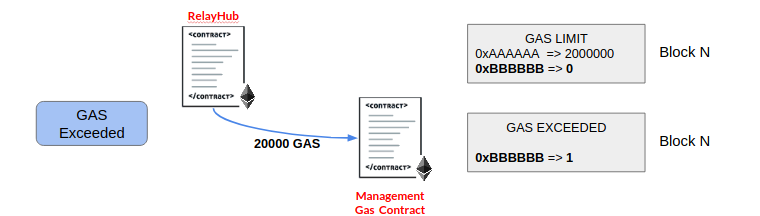
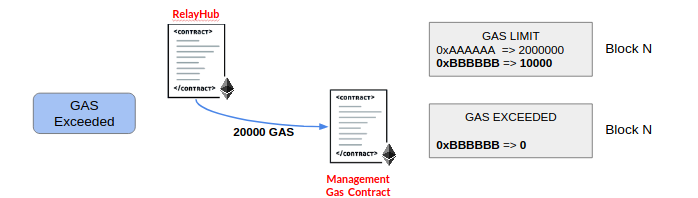
update documentation

diff --git a/docs/Architecture.md b/docs/Architecture.md
@@ -7,13 +7,13 @@ In this section we will review the different components of the architecture, fun
 ## Backend Components
 
 ### Node
-Is a writer node part of the LACChain network. The node is composed of Nginx, relaySigner layer and Hyperledger Besu.
+Is a writer node part of the LACChain network. The node is composed by Nginx, relaySigner layer and Hyperledger Besu.
 
 ### Nginx
-Its role is act as reverse proxy and SSL termination (terminate HTTPS traffic from clients), it accepts all transactions to the node and forwards them to the RelaySigner.
+Its role is act as reverse proxy and SSL termination (terminate HTTPS traffic from clients), it accepts all transactions to the node and forwards them to the RelaySigner. Direct queries to the node do not go through the RelaySigner, in this case nginx redirects them to the RPC port of Besu.
 
 ### RelaySigner Layer
-Its role is to evaluate the type of message that arrives. In case it is a raw transaction, then the node generates a new transaction encapsulating the original transaction(RLP unsigned) in the data field of the new transaction and sends this new transaction to the network. If it is another type of message such as contract calls, private transactions, get the recipient, number of connected nodes, block information or transaction then the message is directly forwarded to the Besu component.
+Its role is to evaluate the type of message that arrives. In case it is a raw transaction, then the node generates a new transaction encapsulating the original transaction(RLP unsigned) in the data field of the new transaction and sends this new transaction to the network. If it is another type of message such as private transactions, get the recipient, block information or get transaction count then the message is directly forwarded to the Besu component.
 
 ### Besu
 Their role is to be a client of the LACChain network, with which the p2p connection is maintained, broadcast transactions with the other nodes of the network. This component receive transactions from RelaySigner to broadcast to network.
@@ -25,17 +25,21 @@ This smart contract is deployed on the LACChain network. The contract allows con
 
 Its role in the model is to allow the connection through the TCP protocol of the nodes in the network. Nodes that are not registered in this contract cannot connect to the permissioned network. It means that before two nodes make the connection, they previously verify against this contract if both are allowed to make the connection.
 
-### Account Permission Smart Contract
-This smart contract is deployed on the LACChain network. The role of this contract is to allow only transactions that are directed towards the RelayHub smart contract or the pre-compiled private contract, which is used to send private transactions. As well as only allow transactions from allowed addresses, which are accounts selected by each organization.
+### Transaction Permission Smart Contract
+This smart contract is deployed on the LACChain network. The role of this contract is to allow only transactions that satisfy the follow rules:
+* Transactions have to be directed towards the RelayHub smart contract.
+* Gas price of transaction must be 0.
+* Gas limit of transaction must be sufficient to run the entire RelayHub.
+* To transactions protected the sender of the transaction must be the same as indicated by the end user or application that generated the transaction.    
 
-Transactions that do not go through the RelayHub or come from non-permissioned addresses will be rejected.
+Transactions that do not satisfy these rules will be rejected.
 
 ### Relay Hub Smart Contract
 This contract is based on EIP 1077. The contract receives a transaction whose data field is decoded by RLP to obtain the parameters of the original transaction, which are the address of the original sender, the gas limit, the nonce, the original data sent and the destination address of this data. 
 
 Then verifies that address which the node of the organization has chosen to send transactions has not reached the gas limit for that block. In case everything is correct, the transaction is forwarded to the recipient contract or create a new smart contract.
 
-### Gas Managenment Smart Contract
+### Gas Management Smart Contract
 This contract keeps track of how much gas is consumed by each organization's address of the network. It also assigns a new maximum gas limit that each node's address can consume depending on the use of the network in the last blocks.
 
 ### Recipient Smart Contract
@@ -47,17 +51,17 @@ This contract will be the final destination of the transaction sent by an user o
 
 ![add_new_node](images/add_node_and_address.png)
 
-When a new node is added to the network, it is added in the Node Permissioning Contract. Then the addresses of the senders of the organization, whose node was previously added to the permitting contract, are added to the Account permissioning contract.
+When a new node is added to the network, it is added in the Node Permissioning Contract. Then the addresses of the senders of the organization, whose node was previously added to the permissioning smart contract, are added to the Transaction permissioning contract.
 
-Then, this last permissioning contract invokes the gas management contract which will set a GAS limit that new node's addresses can use.
+Then, this last transaction permissioning contract invokes the gas management contract which will set a GAS limit that new node's addresses can use.
 
 ### New Gas Address Limit
 
-The frequency with which the new gas limit is set to each participating address of a writer node of the network is every 10 blocks, this is configurable by the consensus group.
+The frequency with which the new gas limit is set to each participating address of a writer node of the network is every 300 blocks (10 min), this is configurable by the permissioning committee.
 
 ![calculate_variables](images/calculate_variables.png)
 
-The formula as the gas is distributed depends on how much GAS was used in the last blocks frequency (10 blocks, wich is configurable). While higher the amount of Gas used among all the organizations, then lower the maximum GAS limit will be. It is very important to mention that the GAS is distributed in the same way among all the members of the network.
+The formula as the gas is distributed depends on how much GAS was used in the last blocks frequency (300 blocks, which is configurable). While higher the amount of Gas used among all the organizations, then lower the maximum GAS limit will be. It is very important to mention that the GAS is distributed in the same way among all the members of the network.
 
 ![calculate_continous](images/calculate_continous.png)
 
@@ -67,10 +71,26 @@ The formula as the gas is distributed depends on how much GAS was used in the la
 
 ![send_transaction](images/send_transaction.png)
 
-Each time a transaction is sent to the network, it is first verified against the account permissioning contract. The transaction is verified to come from a permitted address and is directed to the RelayHub contract or to the pre-compiled private transaction contract.
+Each time a transaction is sent to the network, it is first verified against the transaction permissioning contract. The transaction is verified to satisfy the follow rules:
+
+* Transactions have to be directed towards the RelayHub smart contract.
+* Gas price of transaction must be 0.
+* Gas limit of transaction must be sufficient to run the entire RelayHub.
+* To transactions protected the sender of the transaction must be the same as indicated by the end user or application that generated the transaction.  
+
 In case the transaction does not comply these rules then is canceled and will not be executed. 
 
-After the transaction is verified, this transaction will go directly to the RelayHub contract where it is verified that the nonce sent is greater than the previous one to guarantee that the transaction is unique and does not repeat itself. Before the transaction is forwarded to a recipient contract, it is verified that the node has not consumed all the assigned GAS, in case the node has enough gas then the transaction is forwarded, after execution in the recipient contract the amount of GAS used is reduced for that address which sent the original transaction.
+After the transaction is verified and accepted, this transaction will go directly to the RelayHub contract where it is verified that the nonce sent is greater than the previous one to guarantee that the transaction is unique and does not repeat itself. Before the transaction is forwarded to a recipient contract, it is verified that the node has not consumed all the assigned GAS, in case the node has enough gas then the transaction is forwarded, after execution in the recipient contract the amount of GAS used is reduced for that address which sent the original transaction.
+
+### Protected vs Simple Transaction
+
+The GAS model has two types of transactions, protected and simple. 
+
+Protected transactions are those that ensure that a transaction will only be executed if the writer designated by the end user or application co-signs the transaction and sends it to the network. In addition, the protected transaction has an expiration time in which it must be executed.
+
+In another side, simple transactions do not have execution protection, they may be violated by malicious writer nodes or malicious users could use these types of transactions to ban innocent nodes that do not have protected transactions.
+
+Writer node operators are advised to use protected transactions to avoid any type of attack.
 
 ### Private Transactions
 
@@ -83,23 +103,21 @@ When a private transaction is sent, it goes through the RelaySigner which call t
 ![send_bad_transaction](images/send_bad_transaction.png)
 
 The RelayHub emits a event when a bad or doubtful transaction is sent in following cases:
-- The nonce sent is repeated or lower than registered in contract for that user's address.
-- The gas limit sent in the transaction exceeds the logical gas limit set in the contract(it is not the same as the genesis gas limit).
-- A transaction sent to a contract that has an empty code.
-- A transaction that tries to display an empty code contract.
-- In case that execution of the sent transaction exceeds the total GAS assigned to the writer node through which the transaction is sent.
+* The nonce sent is repeated or lower than registered in contract for that user's address.
+* The gas limit sent in the transaction exceeds the logical gas limit set in the contract(it is not the same as the genesis gas limit).
+* A transaction sent to a contract that has an empty code.
+* A transaction that tries to display an empty code contract.
+* In case that execution of the sent transaction exceeds the total GAS assigned to the writer node through which the transaction is sent.
 
 ### Node Ban and DoS
 
 ![gas_exceeded](images/gas_exceeded.png)
 
-When an organization that owns a address which exceeds the GAS limit assigned to be used in a block, then it will be counted as an exceeded limit and informed by mail to the institution of such action. 
-
-The excesses are reset in the following block frequency (every 10), that means that when the 10 blocks generated are completed, the count of excesses of all the writer nodes will be reset to 0 again.
+When an organization that owns a address which exceeds the GAS limit assigned to be used in a block, then it will be banned.
 
 ![penalize](images/penalize.png)
 
-If action of exceeding the gas limit assigned occurs more than 3 times then the address will be banned and transactions will not be accepted from that address. This is because it could be a denial of service attack.
+If action of exceeding the gas limit assigned occurs in one block address will be banned and transactions will not be accepted from that address. This is because it could be a denial of service attack.
 
 The address banned can be reestablished after the organization has contacted the consensus group.
 
@@ -111,4 +129,12 @@ To make this possible, we take advantage of the atomicity of the execution of th
 
 This function to obtain the original sender is located in an abstract contract, which has to be inherited by all the contracts that will be deployed in the network.
 
-![recepeint](images/recepeint.png)
+![recipient](images/recipient.png)
+
+## How send a protected transaction
+
+In order to send a protected transaction, an end user or application that generates and signs the transaction must add two additional parameters to the function parameters of the destination contract. These parameters are as follows:
+
+* nodeAddress(type:address): This parameter is the address of the private key that signs the transactions in the RelaySigner or by default it will be the address of the writer node through which the transactions will be sent.
+
+* expiration(type:uint256): This parameter is the timestamp (Unix timestamp) that determines until when the transaction can be executed, after this time the transaction cannot be executed (added in a block).
